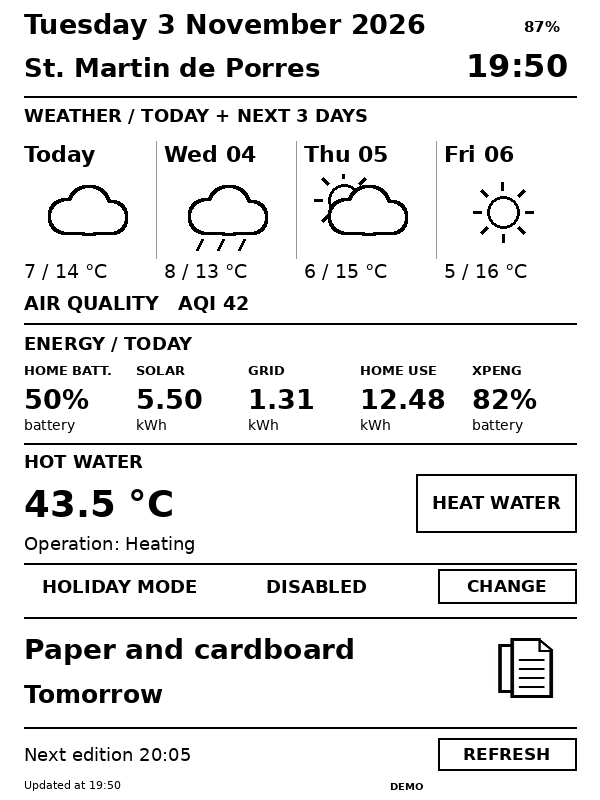
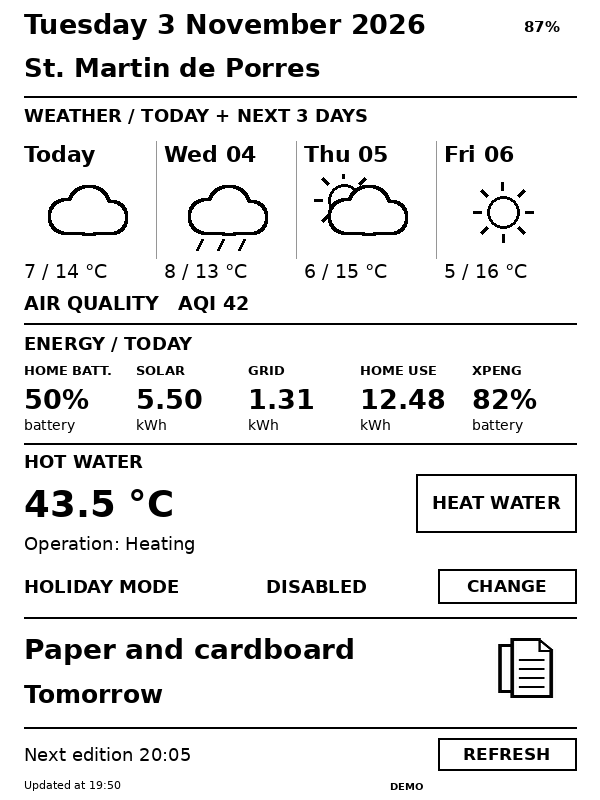
Enlarge saint header, unify heat pump section and align artwork with client touch bounds

Changed region(s): [[0.03, 0.7188, 0.33, 0.75], [0.78, 0.0625, 0.96, 0.0938]]

diff --git a/nook_casa/server.py b/nook_casa/server.py
@@ -197,7 +197,6 @@ def render(data, now, interval):
     aligned((24,8,495,44),date_label,27,True)
     aligned((508,8,576,44),num(data.get('nook_battery'),0,'%'),15,True,True)
     aligned((24,48,448,85),data.get('occasion',''),26,True)
-    aligned((458,44,576,87),now.strftime('%H:%M'),32,True,True)
     line(96)
     text(24,105,'WEATHER / TODAY + NEXT 3 DAYS',18,True)
     forecasts={}
@@ -227,8 +226,7 @@ def render(data, now, interval):
     operation=data.get('operation')
     if operation in (None,'unknown','unavailable'):operation='Unavailable'
     text(24,533,'Operation: '+str(operation),18)
-    line(563)
-    aligned((24,569,216,603),'HOLIDAY MODE',18,True,True)
+    aligned((24,569,216,603),'HOLIDAY MODE',18,True)
     holiday=data.get('holiday')
     aligned((216,569,416,603),'ENABLED' if holiday=='on' else 'DISABLED' if holiday=='off' else '--',18,True,True)
     button((438,569,576,603),'CHANGE',False,17)
@@ -489,3 +487,4 @@ def main():
     server.serve_forever()
 
 if __name__ == "__main__": main()
+

diff --git a/tests/test_touch_geometry.py b/tests/test_touch_geometry.py
@@ -1,0 +1,15 @@
+"""Verify bitmap button rectangles match the installed client, including edges."""
+from pathlib import Path
+import re
+root=Path(__file__).resolve().parents[1]
+java=(root/'android/src/com/bpmct/trmnl_nook_simple_touch/DisplayActivity.java').read_text()
+server=(root/'nook_casa/server.py').read_text()
+drawn=[tuple(map(int,m)) for m in re.findall(r'button\(\((\d+),(\d+),(\d+),(\d+)\)',server)]
+hitboxes=[tuple(map(int,m)) for m in re.findall(r'return new int\[\]\{(\d+),(\d+),(\d+),(\d+)\}',java)]
+assert len(drawn)==3 and set(drawn)==set(hitboxes),(drawn,hitboxes)
+assert 'ImageView.ScaleType.FIT_XY' in java
+assert 'canvas.scale(getWidth()/600f, getHeight()/800f)' in java
+assert 'event.getX()*600f/Math.max(1,v.getWidth())' in java
+assert 'event.getY()*800f/Math.max(1,v.getHeight())' in java
+assert 'x>=b[0] && x<=b[2] && y>=b[1] && y<=b[3]' in java
+print('PASS: all three bitmap, touch and pressed-feedback rectangles match; scaling and inclusive edges agree')

diff --git a/README.md b/README.md
@@ -8,10 +8,16 @@ Weather, energy, hot water, EV battery and upcoming waste collection on a 6-inch
 
 *Generated by the actual renderer using sample data. [View the mockup](docs/MOCKUP.md).*
 
+[Anteprima italiana](docs/images/mockup-it.png) · [Updater italiano](scripts/update_nook_casa_it.sh)
+
+## Layout update 0.4.3
+
+Larger saint name (30 px) across the full row, without the top-right clock. Holiday Mode shares the heat pump section with no divider and starts at the same left edge as the operating state. Button outlines use the exact coordinates already handled by client 0.4.1, including its pressed feedback; no APK update is needed.
+
 ## Features
 
 - Nook battery percentage in the top-right corner, updated at each device contact.
-- A bold date, local time and saint header, without a separate newspaper title.
+- A bold date and larger saint header, without a separate newspaper title.
 - Today's weather and a three-day forecast with monochrome icons, minimum/maximum temperatures and numeric AQI.
 - Home battery charge, today's solar generation, grid import and total home consumption; XPENG battery charge.
 - Current domestic hot water temperature and heat pump operating state; **HEAT WATER** button with confirmation.
@@ -19,7 +25,7 @@ Weather, energy, hot water, EV battery and upcoming waste collection on a 6-inch
 - Next waste collection with a material icon and relative day label (Today, Tomorrow, Day after tomorrow), or weekday and date without a year.
 - Last update time, next edition time and a **REFRESH** button.
 
-Automatic refresh in the `Europe/Rome` time zone: **every 15 minutes from 07:00 to 20:30**, and **every 2 hours from 20:30 to 07:00**. The interval shortens near either boundary to reach it. While forced hot water heating is active, the server requests updates every 60 seconds to follow the switch state; the same short polling applies for five minutes after a hot water request while the integration settles. This is not a real-time display: the printed clock also changes only when the image refreshes.
+Automatic refresh in the `Europe/Rome` time zone: **every 15 minutes from 07:00 to 20:30**, and **every 2 hours from 20:30 to 07:00**. The interval shortens near either boundary to reach it. While forced hot water heating is active, the server requests updates every 60 seconds to follow the switch state; the same short polling applies for five minutes after a hot water request while the integration settles. The header clock is removed to give the saint name the full row; update times remain in the footer.
 
 ## How it works
 
@@ -54,7 +60,7 @@ Full instructions: **[INSTALLATION.md](docs/INSTALLATION.md)**.
 5. In the client, enter API Base URL `http://HOME_ASSISTANT_IP:8099/api`, the server's Device ID and the same local API key.
 6. Enable **Sleep between updates** and select the **TRMNL** screensaver in the original Nook settings. Verify a full sleep/wake cycle on the device.
 
-The public server **0.4.1** and client **0.4.1** use English interface text. Server 0.3.0 introduced configurable entities compared with the personal 0.2.2 server. Server and client version numbers are independent. [Configuration and entity mapping](docs/CONFIGURATION.md).
+The public server **0.4.3** and client **0.4.1** use English interface text. Server 0.3.0 introduced configurable entities compared with the personal 0.2.2 server. Server and client version numbers are independent. [Configuration and entity mapping](docs/CONFIGURATION.md).
 
 ## Security and command behavior
 
@@ -91,3 +97,4 @@ Tests cover rendering, authentication, signed image URLs, allowed commands, dedu
 **MIT**, retaining the original **BPMCT** copyright notice. The client derives from [`usetrmnl/trmnl-nook-simple-touch`](https://github.com/usetrmnl/trmnl-nook-simple-touch), tag `v0.16.0`. This standalone repository combines the modified client and HA server; it is not a GitHub-network fork of the original repository. [Provenance and third-party licenses](THIRD_PARTY_NOTICES.md).
 
 This independent project is not affiliated with Barnes & Noble, TRMNL, Home Assistant, Mitsubishi Electric or XPENG. Product names and trademarks belong to their respective owners.
+

diff --git a/CHANGELOG.md b/CHANGELOG.md
@@ -1,3 +1,12 @@
+# 0.4.3 — 2026-11-04
+
+- Increase the saint header to 30 px and use the full available row.
+- Remove the header clock; retain footer update times and Nook battery.
+- Remove the divider between operation state and Holiday Mode; align both labels at x=24.
+- Match Holiday artwork to the existing client hitbox (438,569)-(576,603); keep vertical text centering.
+- Verify all three buttons against Android touch and pressed-feedback bounds. Client 0.4.1 remains compatible.
+- Refresh renderer previews and document these changes.
+
 # Changelog
 
 ## Server and client 0.4.1
@@ -49,3 +58,4 @@
 ## Server 0.1.x
 
 - Initial local HA → PNG → Nook client bridge, originally read-only.
+
